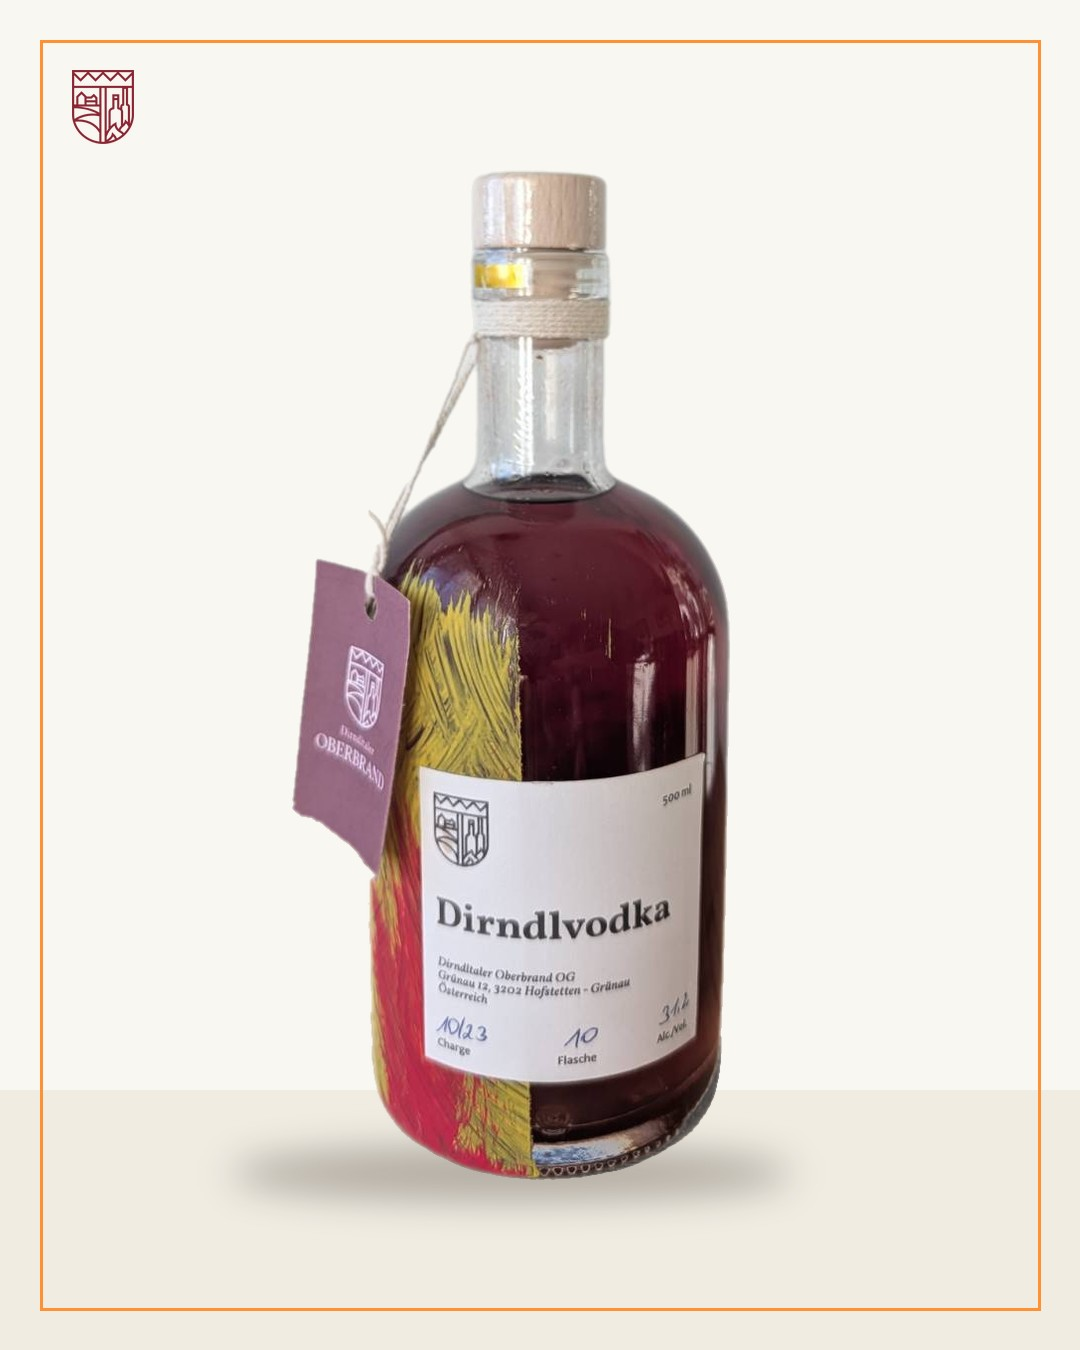
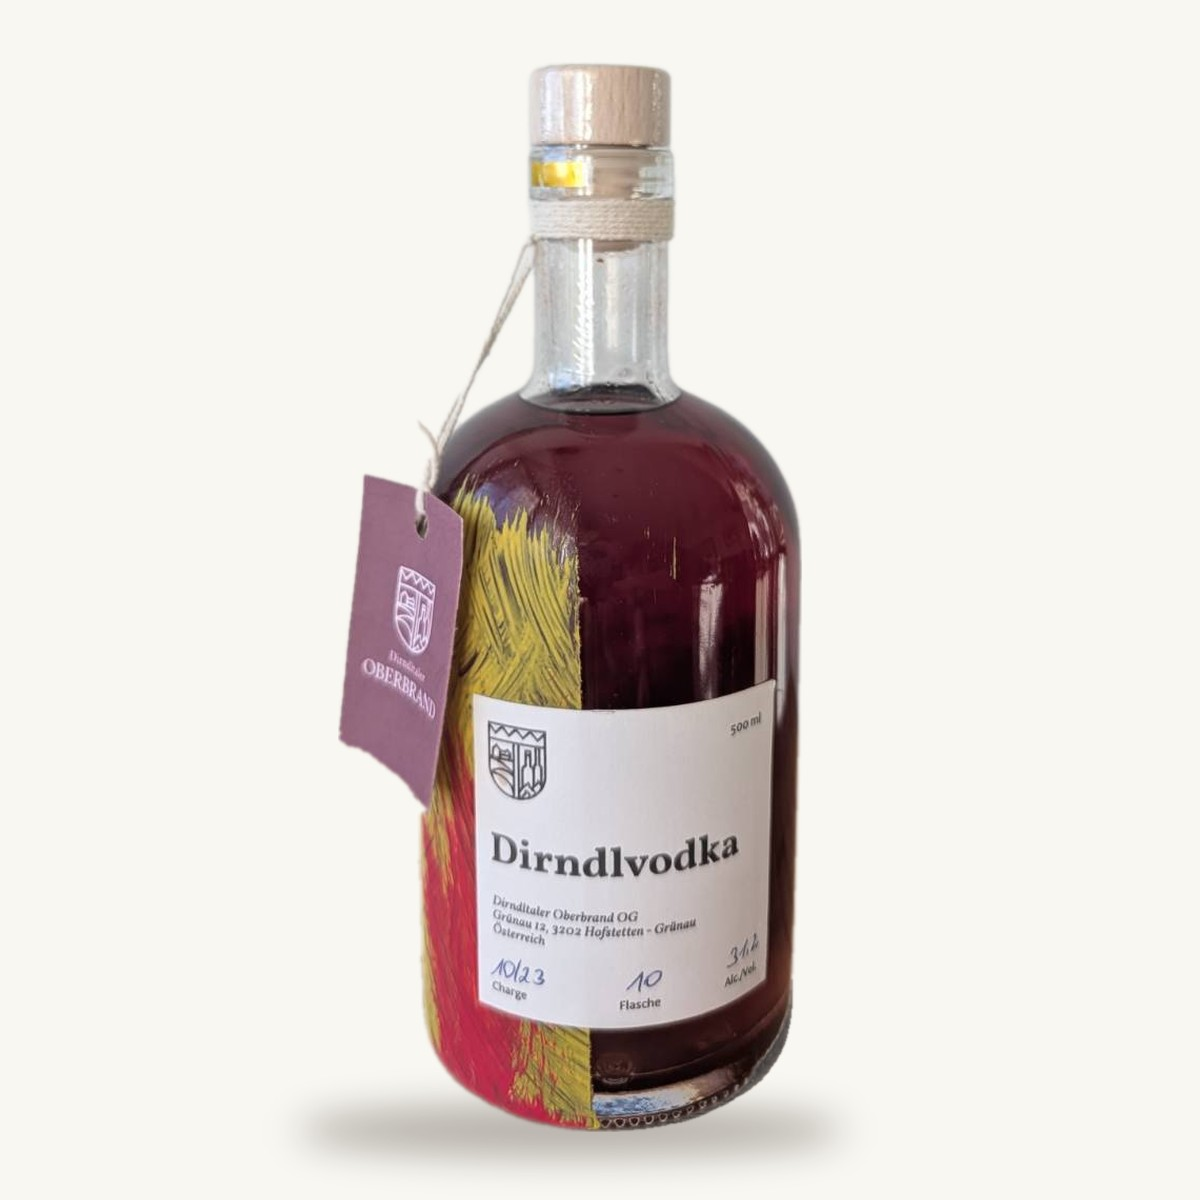
Flaschenbilder: Rahmen und Wappen zeichnet die Seite, Flasche groß im Bildfeld
Claude-Session: https://claude.ai/code/session_01LW5MiPorbVHf59jgJnmTeH

Changed region(s): [[0.0306, 0.0308, 0.9778, 0.9867]]

diff --git a/src/styles/global.css b/src/styles/global.css
@@ -774,8 +774,53 @@ th.zahl {
 }
 
 /* Freigestellte Flaschenfotos: ganz zeigen, Grund wie im Foto */
-.bild--flasche,
-.produkt__bild img.bild--flasche {
+/* Freigestellte Flasche: Rahmen in Kupfer und Wappen zeichnet die Seite, nicht das Foto. */
+.flaschenbild {
+  position: relative;
+  height: 16rem;
+  background: var(--weiss);
+}
+.produkt__bild .flaschenbild {
+  height: auto;
+  aspect-ratio: 1;
+  max-height: 32rem;
+}
+.flaschenbild img,
+.produkt__bild .flaschenbild img {
+  display: block;
+  width: 100%;
+  height: 100%;
   object-fit: contain;
-  background: #f9f7f1;
+  padding: 0.9rem 0.9rem 0.6rem;
+}
+.flaschenbild::before {
+  content: '';
+  position: absolute;
+  inset: 0.6rem;
+  border: 1.5px solid var(--kupfer);
+  pointer-events: none;
+}
+.flaschenbild::after {
+  content: '';
+  position: absolute;
+  top: 1.15rem;
+  left: 1.15rem;
+  width: 1.7rem;
+  aspect-ratio: 645 / 777;
+  background: var(--rot);
+  -webkit-mask: url('/img/wappen.svg') center / contain no-repeat;
+  mask: url('/img/wappen.svg') center / contain no-repeat;
+  pointer-events: none;
+}
+.produkt__bild .flaschenbild::before {
+  inset: 1rem;
+  border-width: 2px;
+}
+.produkt__bild .flaschenbild::after {
+  top: 1.9rem;
+  left: 1.9rem;
+  width: 2.8rem;
+}
+.produkt__bild .flaschenbild img {
+  padding: 1.5rem 1.5rem 1.2rem;
 }
